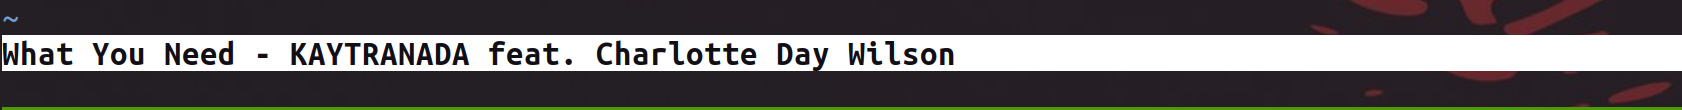
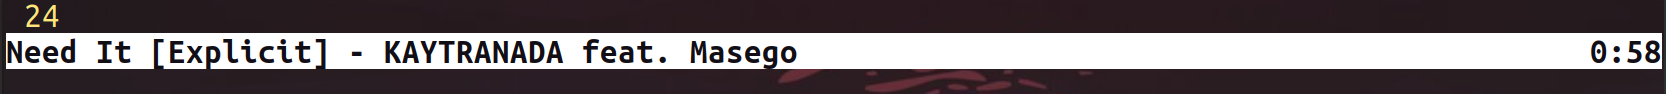
Add playback ticker to statusline

Changed region(s): [[0.0, 0.0, 1.0, 1.0], [0.0, 0.0426, 0.0624, 0.234], [0.8115, 0.8085, 0.8427, 0.8723]]

diff --git a/python/player.py b/python/player.py
@@ -13,6 +13,18 @@ class Player(Mpris):
     def __init__(self, name):
         super().__init__(name)
 
+    def refresh_now_playing(self):
+        title = self.get_title()
+        artist = self.get_artist()
+        pos = self.get_position()
+
+        if title == "" or artist == "" or pos == 0:
+            return
+
+        vim.command('let s:current_track_name = ' + to_vim_string(title))
+        vim.command('let s:current_artist_name = ' + to_vim_string(artist))
+        vim.command('let s:ticker_microseconds = ' + str(pos))
+
     def play(self):
         try:
             self.iface.Play()
@@ -34,9 +46,6 @@ class Player(Mpris):
             self.iface.Previous()
         except:
             return
-        # Many players will simply restart the song if the position
-        # is already past a certain point. We have a dedicated method
-        # supporting restart, so make sure to actually go back here.
         sleep(0.5)  # Need to sleep a bit to ensure new metadata has arrived.
         if self.get_title() == start_track:
             try:
@@ -46,14 +55,30 @@ class Player(Mpris):
 
     def restart(self):
         start_track = self.get_title()
-        # Not all implementations of MediaPlayer are perfect. Chromium
-        # for example lacks trackid metadata, making SetPosition impossible.
-        # For this reason we hack temporarily to prioritize universal support.
         self.iface.Previous()
         sleep(0.5)  # Need to sleep a bit or the Next call will be ignored.
         if self.get_title() == start_track:
             return
         self.iface.Next()
+
+    def set_volume(self, value):
+        self.set_property('Volume', value)
+
+    def adjust_volume(self, value):
+        previous_volume = self.get_property('Volume')
+        self.set_property('Volume', previous_volume + value)
+
+        # If these are equal, volume must not be configurable for the player.
+        if self.get_property('Volume') != previous_volume:
+            vim.command('let s:previous_volume = ' + str(previous_volume))
+
+    def shuffle(self):
+        try:
+            previous_status = self.get_property('Shuffle')
+            self.set_property('Shuffle', not previous_status)
+            print("Shuffle status: " + ("on" if previous_status == 0 else "off"))
+        except:
+            print(self.name + " has not implemented Shuffle yet")
 
     def get_artist(self):
         metadata = self.get_metadata()
@@ -77,37 +102,14 @@ class Player(Mpris):
 
             return str(title)
 
+    def get_position(self):
+        try:
+            return int(self.get_property('Position'))
+        except:
+            return 0
+
     def get_metadata(self):
         try:
             return self.get_property('Metadata')
         except:
             return None
-
-    def refresh_now_playing(self):
-        title = self.get_title()
-        artist = self.get_artist()
-
-        if title == "" or artist == "":
-            return
-
-        vim.command('let s:current_track_name = ' + to_vim_string(title))
-        vim.command('let s:current_artist_name = ' + to_vim_string(artist))
-
-    def set_volume(self, value):
-        self.set_property('Volume', value)
-
-    def adjust_volume(self, value):
-        previous_volume = self.get_property('Volume')
-        self.set_property('Volume', previous_volume + value)
-
-        # If these are equal, volume must not be configurable for the player.
-        if self.get_property('Volume') != previous_volume:
-            vim.command('let s:previous_volume = ' + str(previous_volume))
-
-    def shuffle(self):
-        try:
-            previous_status = self.get_property('Shuffle')
-            self.set_property('Shuffle', not previous_status)
-            print("Shuffle status: " + ("on" if previous_status == 0 else "off"))
-        except:
-            print(self.name + " has not implemented Shuffle yet")

diff --git a/python/vimedia.py b/python/vimedia.py
@@ -1,6 +1,6 @@
 from player import Player
 from base import Base
-from util import get_selected_player_name, get_active_player_names
+from util import get_selected_player_name, get_active_player_names, to_vim_string
 import vim
 import dbus
 
